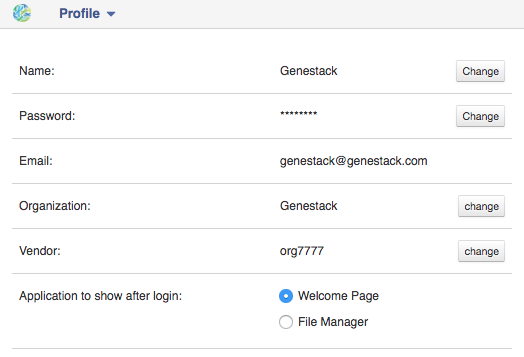
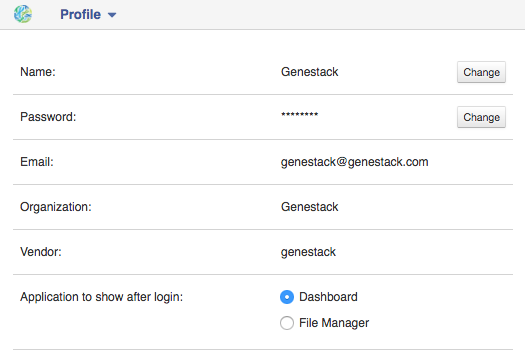
fix images, links, write export part

diff --git a/user-guide/source/guide/using-genestack.rst b/user-guide/source/guide/using-genestack.rst
@@ -38,16 +38,16 @@ organisation and your vendor ID. 
 .. image:: images/profile.png
 
 Organizations are a way of enforcing group permissions. There are two
-types of user in an organization - administrators and non-administrators. If you are in
+types of user in an organization – administrators and non-administrators. If you are in
 the same organization as another user, you can add them to groups you
 control and share files with them freely. If you are in different
 organizations, administrators from both organizations first need to
 approve adding them to the group. You can learn more about data sharing,
-permissions and groups in the :ref:`sharing` section.
+permissions and groups in the "Sharing Data and Collaboration" section.
 
 Vendor IDs are used for app development. Apps you have created will be
 marked with your vendor ID. Moreover, here you can specify which page you
-would like to see after login: Welcome Page or File Manager.
+would like to see after login: Dashboard or File Manager.
 
 **Tasks** links to the Task Manager app, where you can monitor running and
 previous computations.
@@ -68,7 +68,8 @@ Let’s go back to the Dashboard. Here you can find the following sections:
    (home), as well as often used folders: Uploaded files, Imported files,
    Created files and Exports.
 4. **Import data** allows you to import your data using either a
-   custom or the default import template. See the section :ref:`import`
+   custom or the default import template. See the section "Import" for more
+    information.
 5. **Tutorials** explain the most common analysis types in greater detail.
 6. **Search** across the metadata of all your files using the full-text file
    search text box.
@@ -94,14 +95,14 @@ Here you can view the list of all applications available on the platform
 The **Developer** button will give you the option to choose which version of
 an app you want to use.
 
-.. image:: images/developer-button.png
-    :scale: 35 %
+.. image:: images/developer_button.png
+   :scale: 35 %
 
 The **‘bundled’** and **‘minified’** options optimize
 loading of CSS and JS used in the app. You can find more details on
-bundling and minifying here_.
+bundling and minifying in `blog post by Dino Esposito`_.
 
-.. _here: https://msdn.microsoft.com/en-us/magazine/dn451436.aspx
+.. _blog post by Dino Esposito: https://msdn.microsoft.com/en-us/magazine/dn451436.aspx
 
 The **Session** and **User** dropdown menus allow you to chose the version of
 the app you want to use for your current log-in session and for your
@@ -113,13 +114,13 @@ the version of your choice.
 Manage Groups
 ~~~~~~~~~~~~~
 
-.. image:: images/ManageGroups.png
+.. image:: images/manage_groups.png
 
 In order to share data, we use **groups**. In the Manage Groups section you
 can change the settings of your current collaboration groups or create
 new ones and invite other users to join. You can also view and accept
 all the invitations you have received from other users.
-Read more about collaboration on Genestack in :ref:`sharing`.
+Read more about collaboration on Genestack in the "Sharing" section.
 
 Manage Users
 ~~~~~~~~~~~~
@@ -127,7 +128,7 @@ Manage Users
 In this section, you can change password of your users or create new users.
 You can find more about managing users on Genestack from `this video`_.
 
-.. image:: images/manage-users.png
+.. image:: images/manage_users.png
 .. _this video: https://www.youtube.com/watch?v=asMhUjD_i68&list=PLqGSwEO9VFw1e7Z996-gQWE4vgRZMyY3Z&index=1
 
 Importing Data
@@ -164,7 +165,7 @@ be automatically imported as an experiment.
   microarray assays, Genestack creates an experiment and adds the assays to it.
 
 - **Experiment attachments** additional documents in any file format (e.g. PDF, Word, text, etc.)
-  can be uploaded as an experiment attachment. See :ref:`attachments`
+  can be uploaded as an experiment attachment. We will discuss teh use of attachments below.
 
 
 Moreover, when you perform any analysis on Genestack, you can create other data
@@ -359,7 +360,7 @@ stages described above.
 Once you have completed the metainfo editing step, you may see a "Use files in
 data flow" button at the bottom of the page by "Import files". This depends on
 the file type you have imported. Later you can find your files in the "Imported
-files" folder which can be accessed from the Welcome Page and from the File
+files" folder which can be accessed from the Dashboard and from the File
 Manager.
 
 Metadata Import
@@ -422,7 +423,7 @@ metainfo" step:
 
 .. image:: images/exp_attachments.png
 
-Or, add and remove attachments from inside the File manager, when you open an
+Or, add and remove attachments from inside the File Manager, when you open an
 experiment. There is an "attachments" link by the experiment name and
 description:
 
@@ -454,12 +455,12 @@ For instance, you can set the filters 'Access', 'Method'
 and 'Organism' to 'Public', 'RNA-Seq', 'Mus musculus', respectively,
 to filter out publicly accessible data on mice obtained from mouse RNA-Seq data.
 
-.. image:: images/ExperimentBrowser.png
+.. image:: images/experiment-browser.png
 
 Click **Save N matching assays** link to explore
 the list of matching assays and save them into one folder.
 
-.. image:: images/SaveMatchingAssays.png
+.. image:: images/save-matching-assays.png
 
 Moreover, Experiment Browser allows you to find bioinformatics analyses results
 associated with raw data. If there are analysis performed on a given experiment,
@@ -468,23 +469,24 @@ then under the experiment name you will see a **View N analysis results** link.
 Clicking it shows you the list of existing resulting files such as, for example, QC reports
 or Genome Browser pages.
 
-.. image:: images/AnalysisResults.png
+.. image:: images/analysis-results.png
 
 Clicking on the name of any of the experiments will take you to
-the **Metainfo editor**, where you can view (and possibly edit) the metadata of this experiment and its assays.
+the **Metainfo editor**, where you can view (and possibly edit) the metadata of this
+experiment and its assays.
 
-.. image:: images/EditMetainfo.png
+.. image:: images/metainfo-editor.png
 
 Besides that, on the Metainfo Editor page you can run the assays through a pipeline via the button
 **Start new data flow with application**. You can either use an existing data flow matching the assays, or build a
 new pipeline step by step.
 
-.. image:: images/NewDF.png
+.. image:: images/new-df.png
 
 From the Metainfo Editor, you can also open the experiment in the **File Manager** by clicking on
 the experiment's name at the top of the page and selecting **Explore > File Manager**.
 
-.. image:: images/FromMEtoFB.png
+.. image:: images/from-ME-to-FB.png
 
 File Manager
 ~~~~~~~~~~~~
@@ -492,7 +494,7 @@ File Manager
 Like on any operating system, the **File Manager** is where you can easily access
 all of your files, organise them into folders, and open them with various applications.
 
-.. image:: images/FileManager.png
+.. image:: images/file-manager.png
 
 The panel (tree view) on the left-hand side is the file system navigator.
 Here you can see many different folders. Some special folders are worth mentioning:
@@ -532,7 +534,7 @@ you or that you shared with other users. See the :ref:`sharing` section for mor
 **Public Data** contains all of the goodies we have preloaded on Genestack
 to make life a bit simpler for our users. This folder contains:
 
-.. image:: images/PublicData.png
+.. image:: images/public-data.png
 
 #. **Codon tables**: currently 18 different tables such as yeast
    mitochondrial, vertebrate mitochondrial, blepharisma macronuclear
@@ -584,7 +586,7 @@ The **Add to** and **Move to** action allow you to link or move a file to a chos
 current file is linked. The **file accession** is a unique identifier attached to each file.
 Unlike other metainfo attributes, it will never change for any file.
 
-.. image:: images/ParentContainers.png
+.. image:: images/parent-containers.png
 
 Above the file manager pane, you can find the **Import** button. Clicking
 it takes you to the Import app page, where you can upload your files,
@@ -597,13 +599,13 @@ you will be able to create a new folder wherever you want. Another option
 - **New folder with selection** - appears when you have selected files and
 want to put all of them in a separate folder.
 
-.. image:: images/NewFolder.png
+.. image:: images/new-folder.png
 
 The **Preprocess, Analyse, Explore and Manage** menus at the top of the page
 correspond to the four groups of applications that can be used to process and view data.
 These menus will become available when you select a file. 
 
-.. image:: images/MatchingApps.png
+.. image:: images/matching-apps.png
 
 When you choose a file, the system will suggest apps which can work with the specific
 file type (e.g. sequencing assay). However, you still need to think about the nature of
@@ -618,7 +620,7 @@ metadata (names, organism, method). To limit the search by file
 type or whether or not the file is shared with you, click on the arrow
 inside the search box.
 
-.. image:: images/FileSearch.png
+.. image:: images/file-search.png
 
 Below the search box is a button to access your **briefcase**. Your
 briefcase is a place where you can temporarily store files from various
@@ -629,15 +631,15 @@ briefcase...". **To delete** an item from your briefcase hover over it and
 click on the "x" button. **To clear all** items from the briefcase, select
 the "Clear all" option.
 
-.. image:: images/BriefCase.png
+.. image:: images/brief-case.png
 
 If you select a file, **three additional** buttons will show up, allowing
 you to **share**, **delete** the file or **view metainfo** (an "eye"-icon) for
 the file.
 
-.. image:: images/3buttons1.png
+.. image:: images/3buttons-1.png
 
-.. image:: images/3buttons2.png
+.. image:: images/3buttons-2.png
 
 Use the **Share** button to share your data with colleagues (the share button
 will not be available if you are using a guest account).
@@ -674,8 +676,7 @@ analysis, difficult or even impossible without human participation.
 To harmonize raw metadata we apply **automated curation** where we map raw entries to
 controlled terms that we store and maintain in special files called **Dictionaries**.
 To prepare these Dictionaries we adopted terms from external ontologies or created them manually.
-
-Our standardized and unified terminology you can also use to describe your own data
+You can also use our standardized and unified terminology to describe your own data
 or analysis results.
 
 Our **Edit Metainfo** app enable you to prepare metadata manually. You can edit metadata on
@@ -695,15 +696,15 @@ then in the appear pop-up window pick template of interest.
 
 .. image:: images/change-template.png
 
-To edit or enter metadata just start typing in the corresponding cell, you will be
-suggested with terms from our controlled dictionaries when possible. Although, you are free to enter
+When you start typing in the corresponding cell, you will be
+suggested with terms from our controlled dictionaries if possible. Although, you are free to enter
 any values, we encourage you to use our standartized terminology, that helps you
 to avoid typos and harmonise metadata.
 
 .. image:: images/tissue-dict.png
 
-Furthermore, one metadata field can include several values for each individual assay:
-just enter the first term as usual, click the button **Add another** and either add
+Furthermore, you can add several terms to one metadata field for each file. To do so
+enter the first term as usual, click the button **Add another** and either add
 one of the existing fields or create your own one (i. e. custom key).
 
 .. image:: images/add-attribute.png
@@ -717,7 +718,7 @@ numeric value you should use "Integer" or "Decimal" one.
 .. image:: images/custom-key.png
 
 
-Click column name to **sort** metadata alphabetically or **delete** the selected column if needed.
+Click column name to **sort** metadata or **delete** the selected column if needed.
 
 .. image:: images/sort.png
 
@@ -773,7 +774,6 @@ top-right corner of any page.
 
 .. image:: images/profile_menu.png
 
-.. image:: images/metainfo-editor.png
 
 Managing users
 ~~~~~~~~~~~~~~
@@ -837,9 +837,9 @@ By default, newly added users will be granted the lowest permission level
 
 .. TODO I don't like the fact that we are linking to tutorials and videos from here
 
-Learn more on how to Create and Manage Groups `here`_.
+Learn more on how to Create and Manage Groups `in our tutorial`_.
 
-.. _here: https://genestack.com/tutorial/managing-and-sharing-data/
+.. _in our tutorial: https://genestack.com/tutorial/managing-and-sharing-data/
 
 Sharing files with a group
 ~~~~~~~~~~~~~~~~~~~~~~~~~~
@@ -871,7 +871,7 @@ when they open that folder (which can make it easier for them to find it). If
 you click "No", the file will not be linked into the group folder but the
 group's users will still be able to find the file through the File Search box
 (for instance, if you tell them the accession of the file), in File Provenance
-and through the :ref:`experiment-browser`.
+and through the Experiment Browser.
 
 Each group has an associated group folder which you can access from the File
 Manager under "Shared with me" in the left-hand side panel.
@@ -926,7 +926,7 @@ You can initialize files in different ways:
 Click on the name of your last created file at the top of the application page
 and select "start initialization".
 
-.. image:: images/start_initilozation.png
+.. image:: images/start_initialization.png
 
 2. Clicking **Start initialization now** in Data Flow Runner application.
 
@@ -1053,7 +1053,7 @@ Complete reproducibility is one of the core strengths of Genestack. For any
 file in the system, you can view the file provenance and then replay the same
 exact analysis on other data files.
 
-.. image:: file_provenance.png
+.. image:: images/file_provenance.png
 
 The File Provenance app also allows you to view the text description of the
 pipeline used to create a given file. Clicking the "View as text" button
@@ -1069,8 +1069,8 @@ by selecting the file of interest and choosing "Create new Data Flow" from the
 available "Manage" apps.
 
 
-.. |view_as_text| image:: images/view_as_text.png
-.. scale: 45%
+.. image:: images/view_as_text.png
+   :scale: 45 %
 
 
 Task Manager
@@ -1103,19 +1103,38 @@ If you change your mind about a computation after it has started,
 Statuses in Task Manager help you keep track of your tasks. Let’s look
 what each status means:
 
--  Starting: the computation process has started to run
--  Done:  the task has finished successfully
--  Failed: the computation has failed. To find out why, click on
-   "View logs"
--  Queued: the task is waiting for dependencies to complete
+-  *Starting* - the computation process has started to run
+-  *Done* - the task has finished successfully
+-  *Failed* - the computation has failed. To find out why, click on "View logs"
+-  *Queued* - the task is waiting for dependencies to complete
    initialization
--  Running: your task is in progress
--  Blocked by dependency failure: the computation cannot be completed
+-  *Running* - your task is in progress
+-  *Blocked by dependency failure* - the computation cannot be completed
    because a task on which this one depends has failed
--  Killed: the task has been canceled by the user
+-  *Killed* - the task has been canceled by the user
 
 
 Data Export
 -----------
 
-.. TODO
+Genestack provides secure data storage, and **Export Data** application
+allows to safely download both assays and analysis results together with attached metadata
+to a local machine.
+Select those files you are going to export, right-click on them
+and select **Export Data** app.
+On the app page you will see the status of your files, and if some of them are not
+initialized you will be suggested to initialize them prior to export.
+
+.. image:: images/export1.png
+
+If you change you mind, you can stop exporting process by click on "Cancel" button.
+
+.. image:: images/export2.png
+
+The app creates an Export File that contains a special link to download
+the selected assays, that is accessible until the corresponding Export File is deleted.
+
+.. image:: images/export3.png
+
+Sharing the link enables your collaborator to download data even if they do not have
+a Genestack account. All the Export files are stored in the “Exports” folder.
